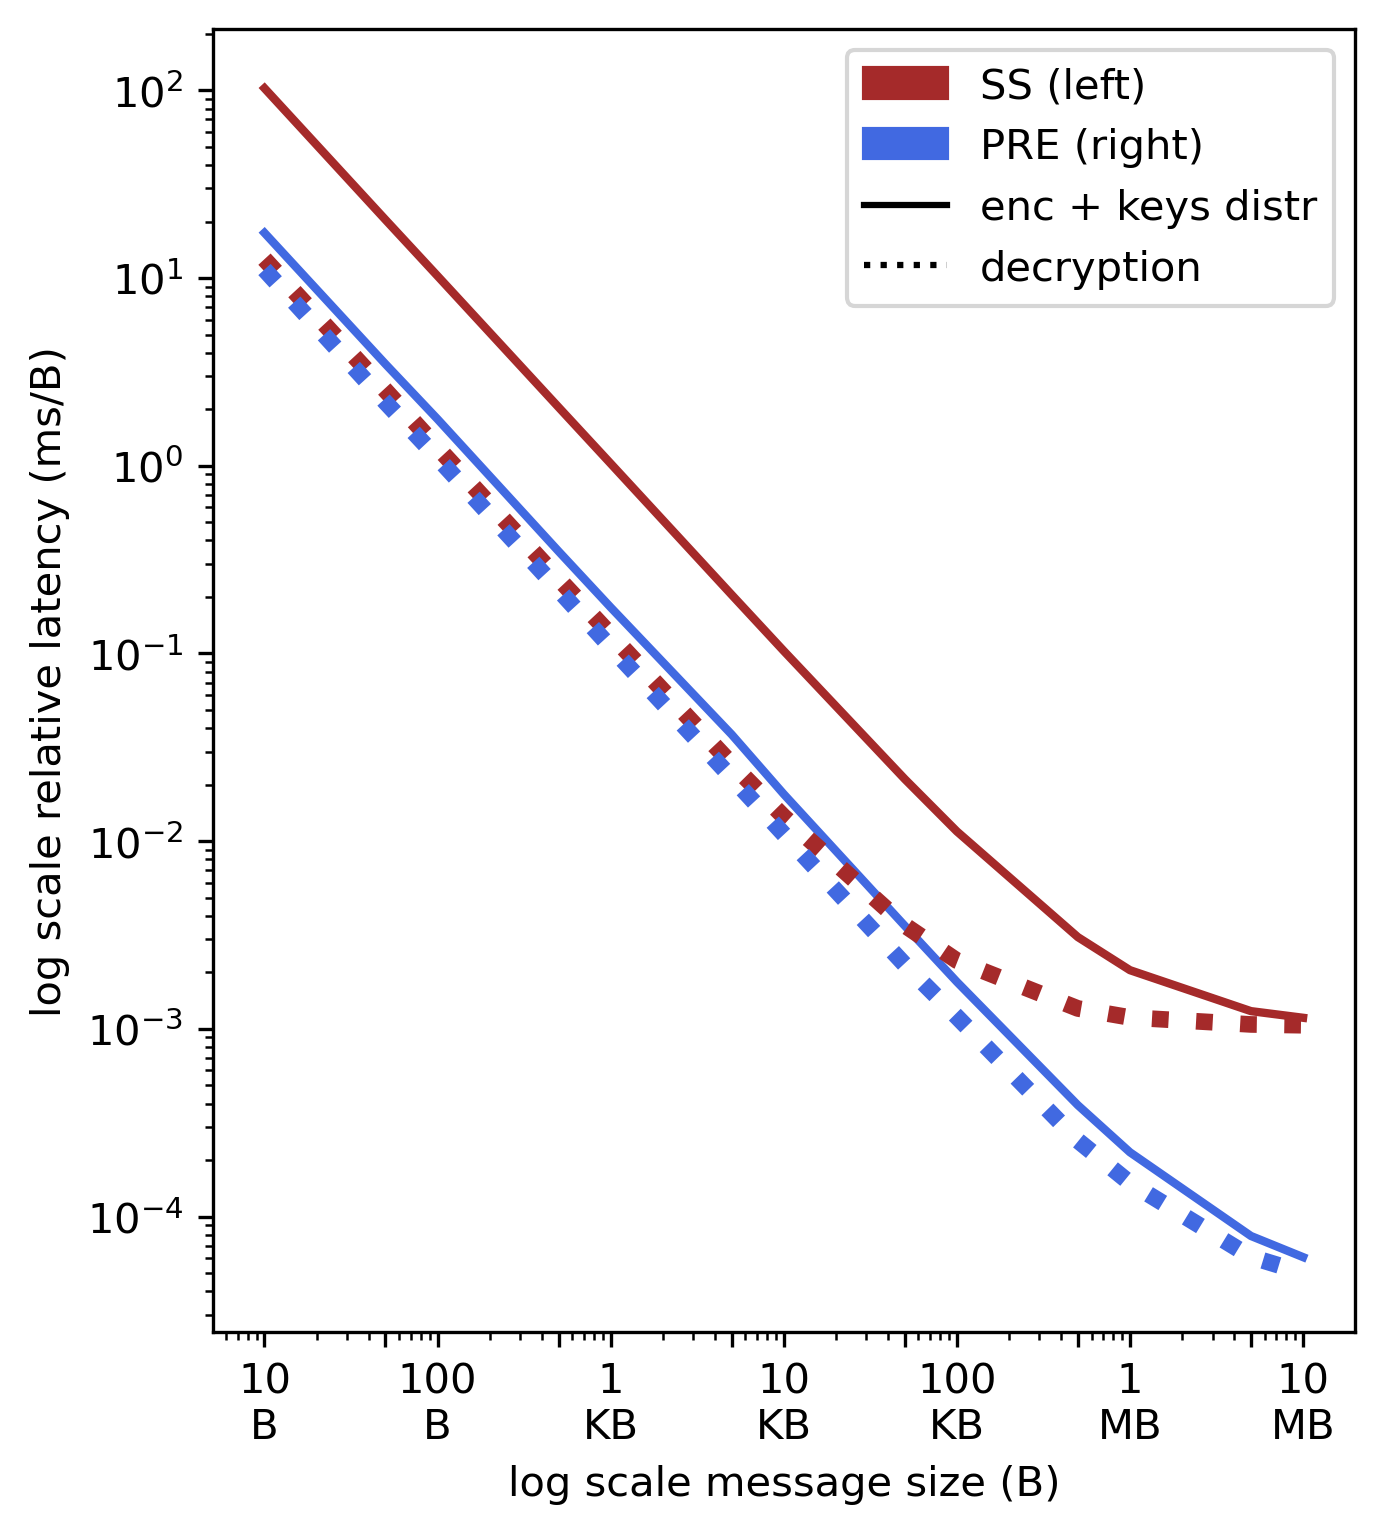
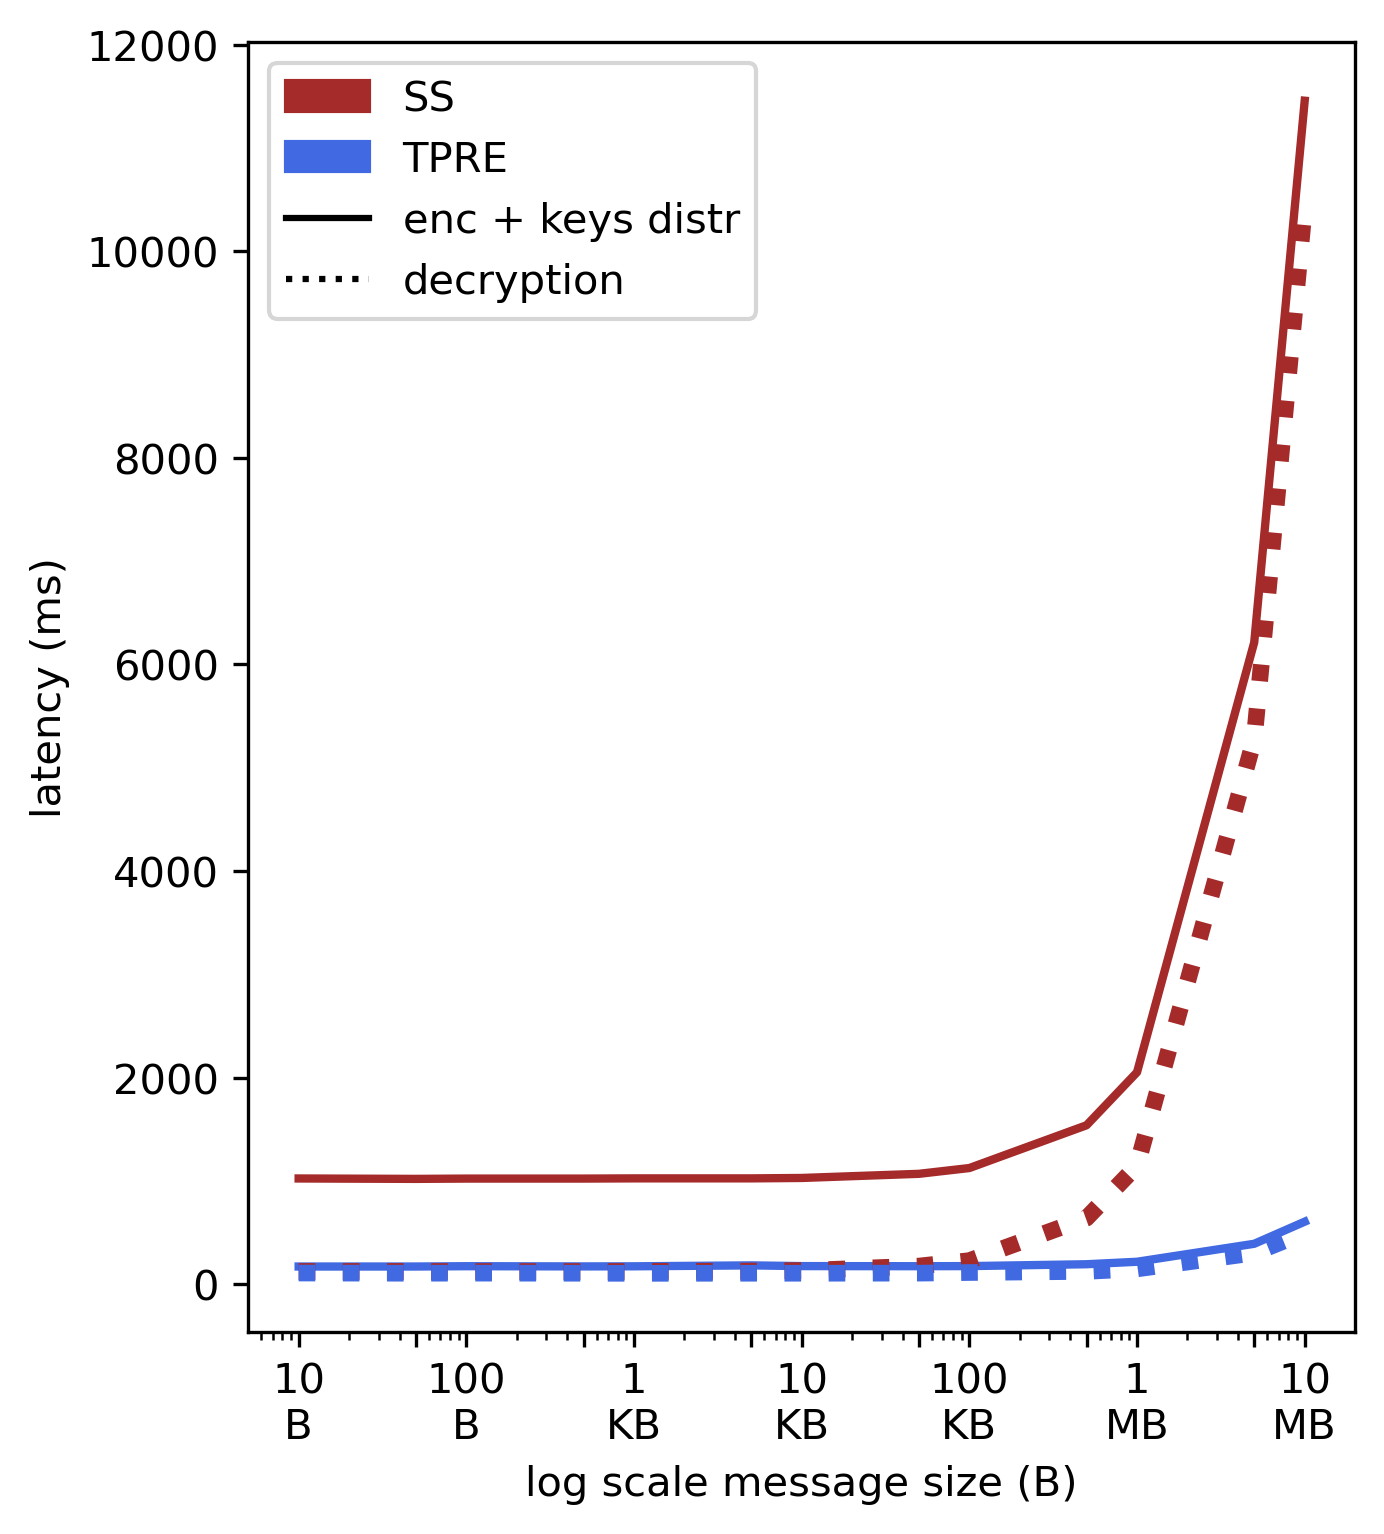
small fixes

diff --git a/benchmarks/scripts/complete.py b/benchmarks/scripts/complete.py
@@ -133,8 +133,8 @@ def nodes():
 
     axes[1].set_ylim(0, 1450)
 
-    patch01 = mpatches.Patch(color='brown', label='SS (left)')
-    patch02 = mpatches.Patch(color='royalblue', label='PRE (right)')
+    patch01 = mpatches.Patch(color='brown', label='SS')
+    patch02 = mpatches.Patch(color='royalblue', label='TPRE')
     patch1 = mpatches.Patch(color='dimgray', label='decryption (dark)')
     patch2 = mpatches.Patch(color='silver', label='keys distr (medium)')
     patch3 = mpatches.Patch(color='whitesmoke', label='encryption (light)')
@@ -188,28 +188,28 @@ def messages():
     tot2 = np.array(tot2)
 
     # plot the data
-    axes2.plot(x_data_int, enc/x_data_int, color='brown',
+    axes2.plot(x_data_int, enc, color='brown',
                linestyle="solid", linewidth=2)
 
-    axes2.plot(x_data_int, enc2/x_data_int, color='royalblue',
+    axes2.plot(x_data_int, enc2, color='royalblue',
                linestyle="solid", linewidth=2)
 
-    axes2.plot(x_data_int, dec/x_data_int, color='brown',
+    axes2.plot(x_data_int, dec, color='brown',
                linestyle="dotted", linewidth=4)
 
-    axes2.plot(x_data_int, dec2/x_data_int, color='royalblue',
+    axes2.plot(x_data_int, dec2, color='royalblue',
                linestyle="dotted", linewidth=4)
 
     axes2.set_xscale('log')
-    axes2.set_yscale('log')
+    # axes2.set_yscale('log')
     axes2.set_xticks(x_data_int)
     axes2.set_xticklabels(x_data)
 
-    axes2.set_ylabel('log scale relative latency (ms/B)')
+    axes2.set_ylabel('latency (ms)')
     axes2.set_xlabel('log scale message size (B)')
 
-    patch01 = mpatches.Patch(color='brown', label='SS (left)')
-    patch02 = mpatches.Patch(color='royalblue', label='PRE (right)')
+    patch01 = mpatches.Patch(color='brown', label='SS')
+    patch02 = mpatches.Patch(color='royalblue', label='TPRE')
     soli = mlines.Line2D([], [], color='black',
                          linestyle='dotted', label='decryption')
     dott = mlines.Line2D([], [], color='black',
